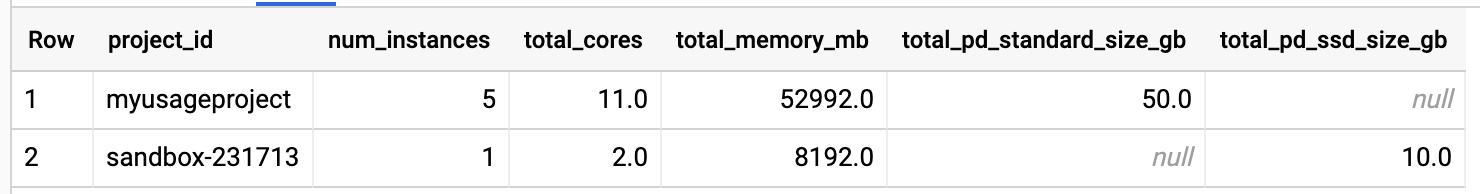
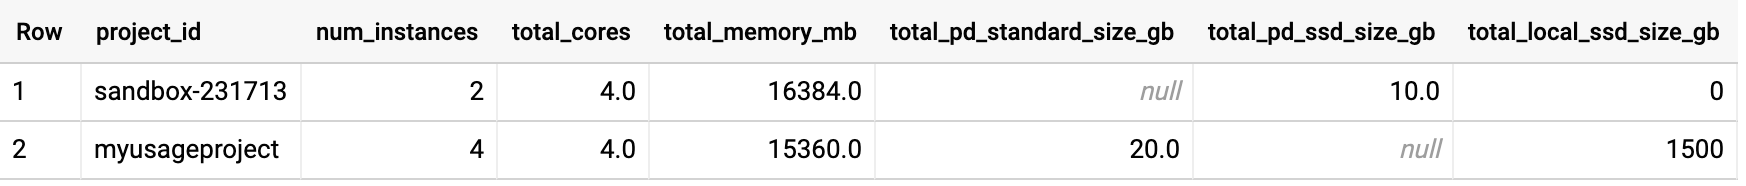
Updating docs to add local-ssd

diff --git a/tools/gce-usage-log/README.md b/tools/gce-usage-log/README.md
@@ -6,7 +6,7 @@ As your GCP organization grows, you may want to understand the business context 
 
 ## 1. Overview
 
-This project will capture events relevant to your GCE instance usage and log them in BigQuery in way that surfaces your GCE vCPUs (cores), RAM and attached PD (standard and SSD), sliceable by zone, project, network tags, labels, and whether the instance was preemptible.
+This project will capture events relevant to your GCE instance usage and log them in BigQuery in way that surfaces your GCE vCPUs (cores), RAM, and attached persistent (standard and SSD) or scratch (local SSD) disks, sliceable by zone, project, network tags, labels, and whether the instance was preemptible.
 
 This solution entails three components: an organization-level audit log sink, a process to inventory your currently running GCE instances, and a BigQuery view.
 
@@ -197,6 +197,7 @@ SELECT
   SUM(memory_mb) as total_memory_mb,
   SUM(pd_standard_size_gb) as total_pd_standard_size_gb,
   SUM(pd_ssd_size_gb) as total_pd_ssd_size_gb
+  SUM(local_ssd_size_gb) as total_local_ssd_size_gb
 FROM `gce_usage_log._gce_usage_log`
 
 WHERE inserted < '2019-08-23 08:00:00.000 UTC'
